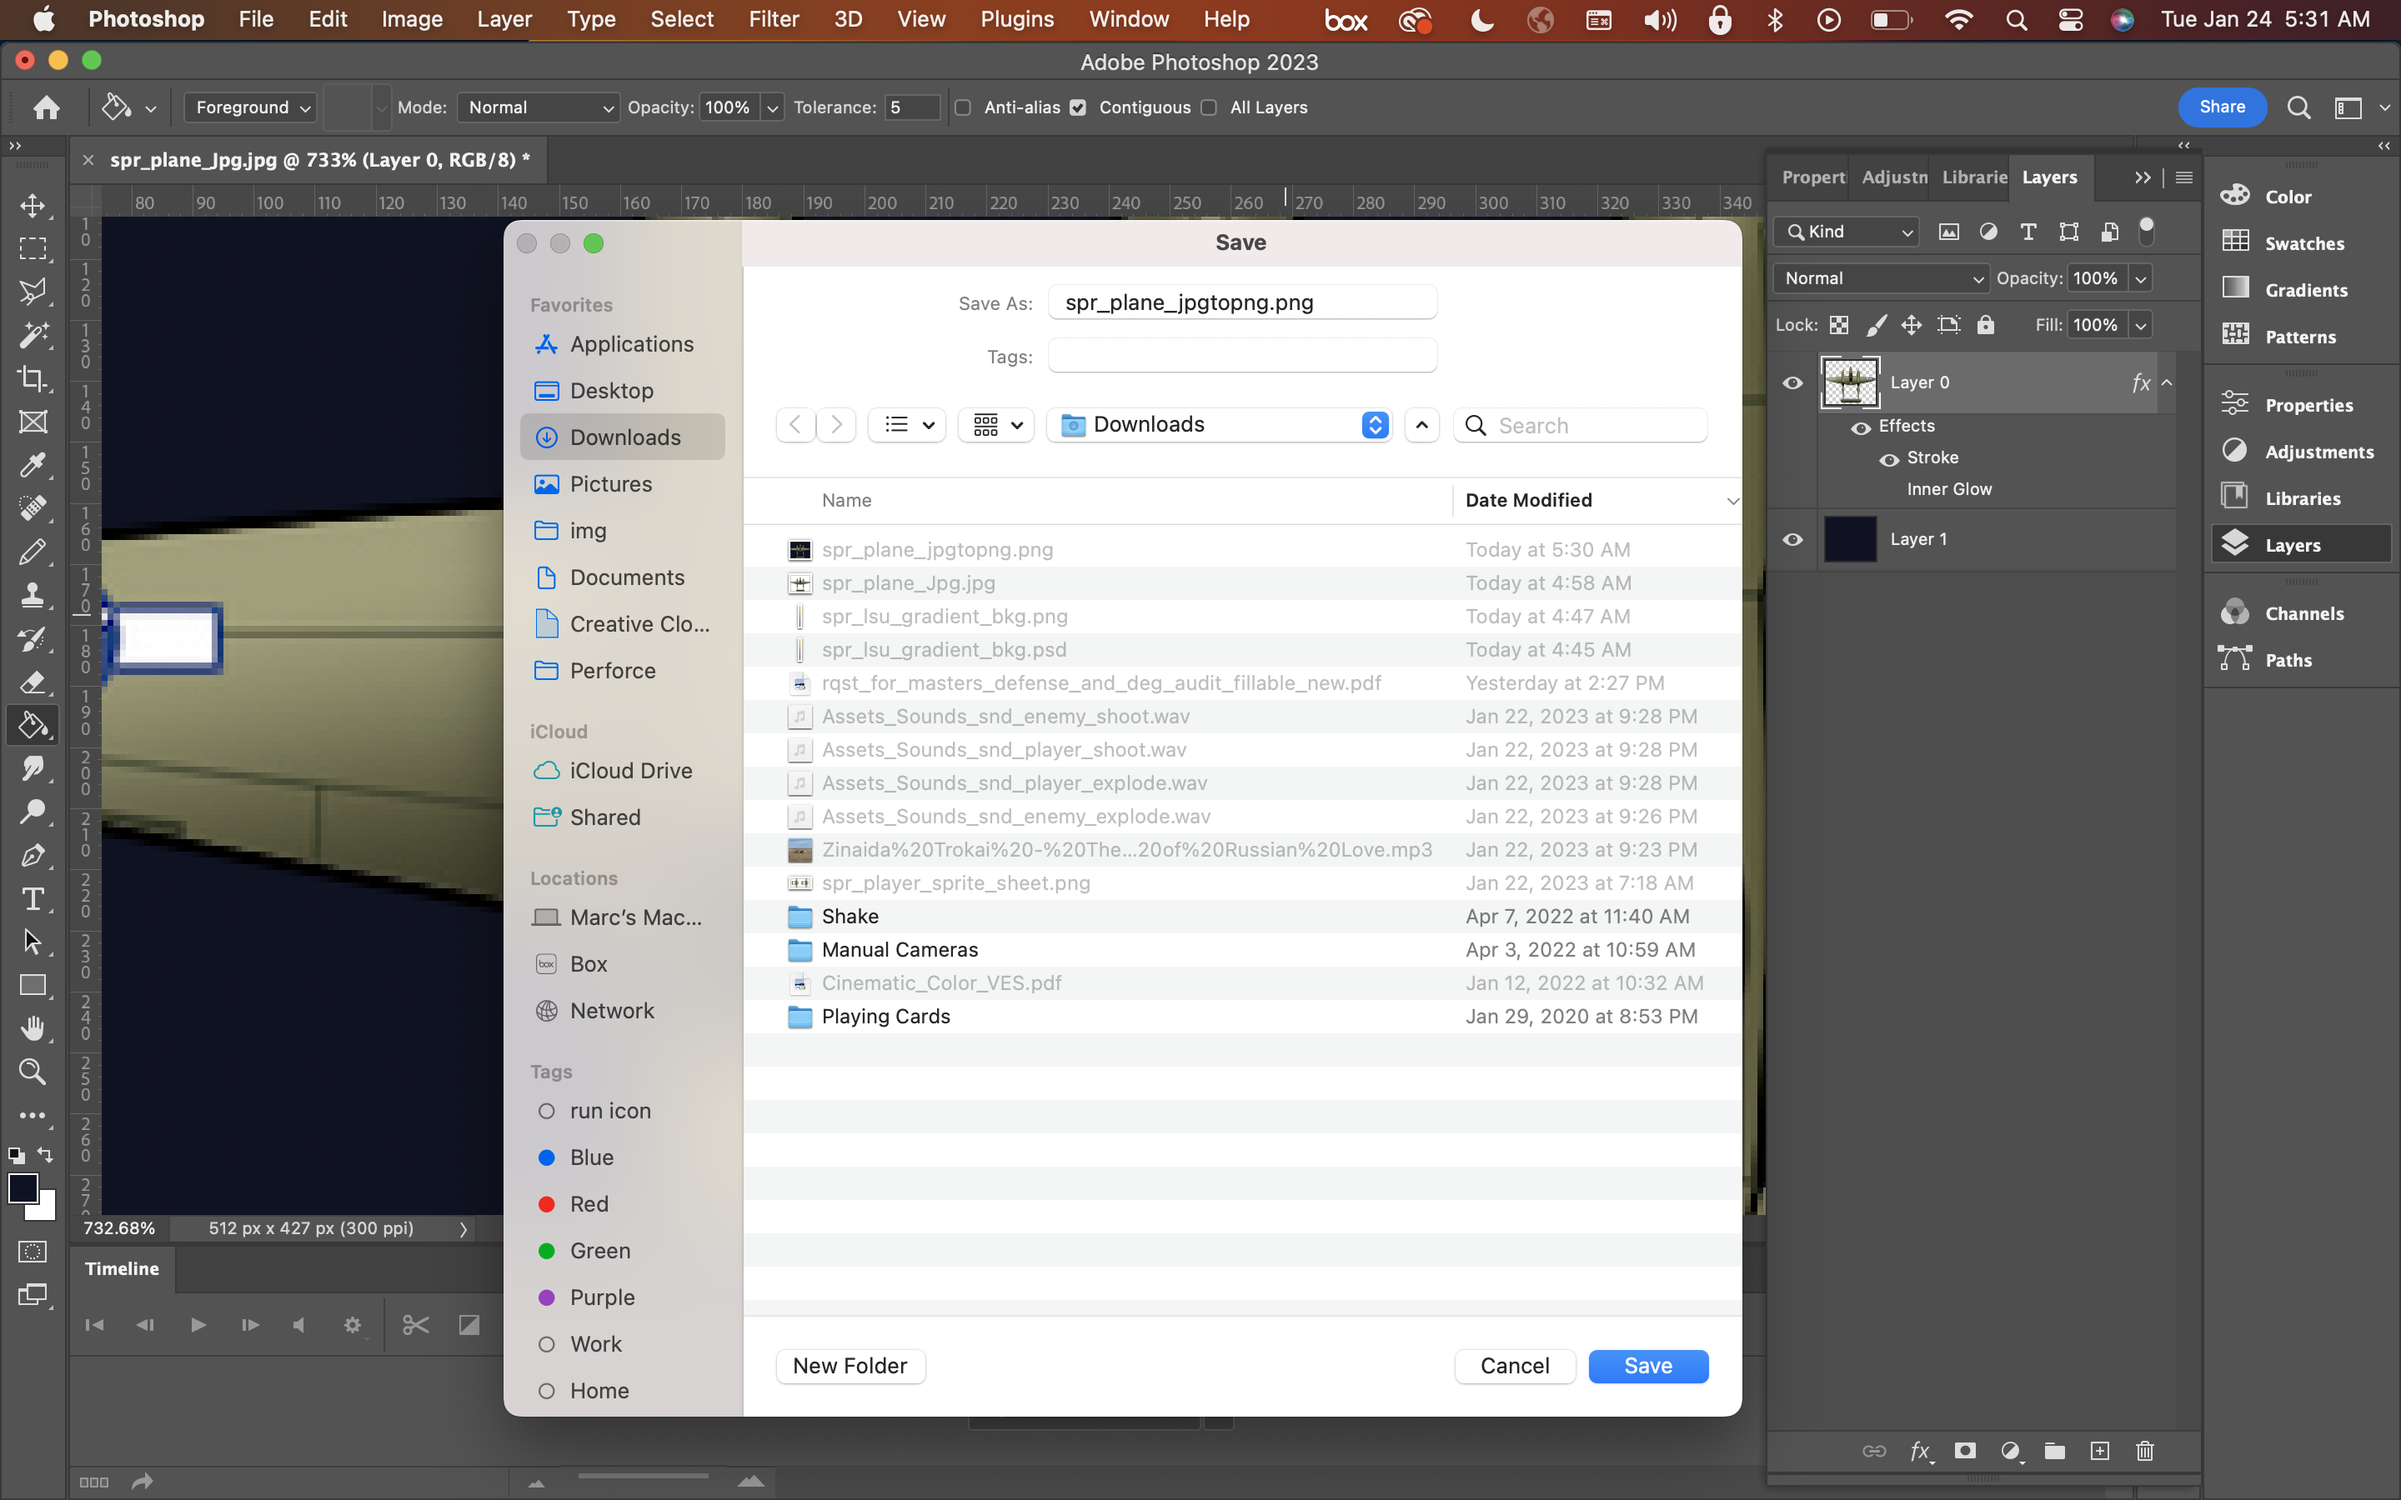
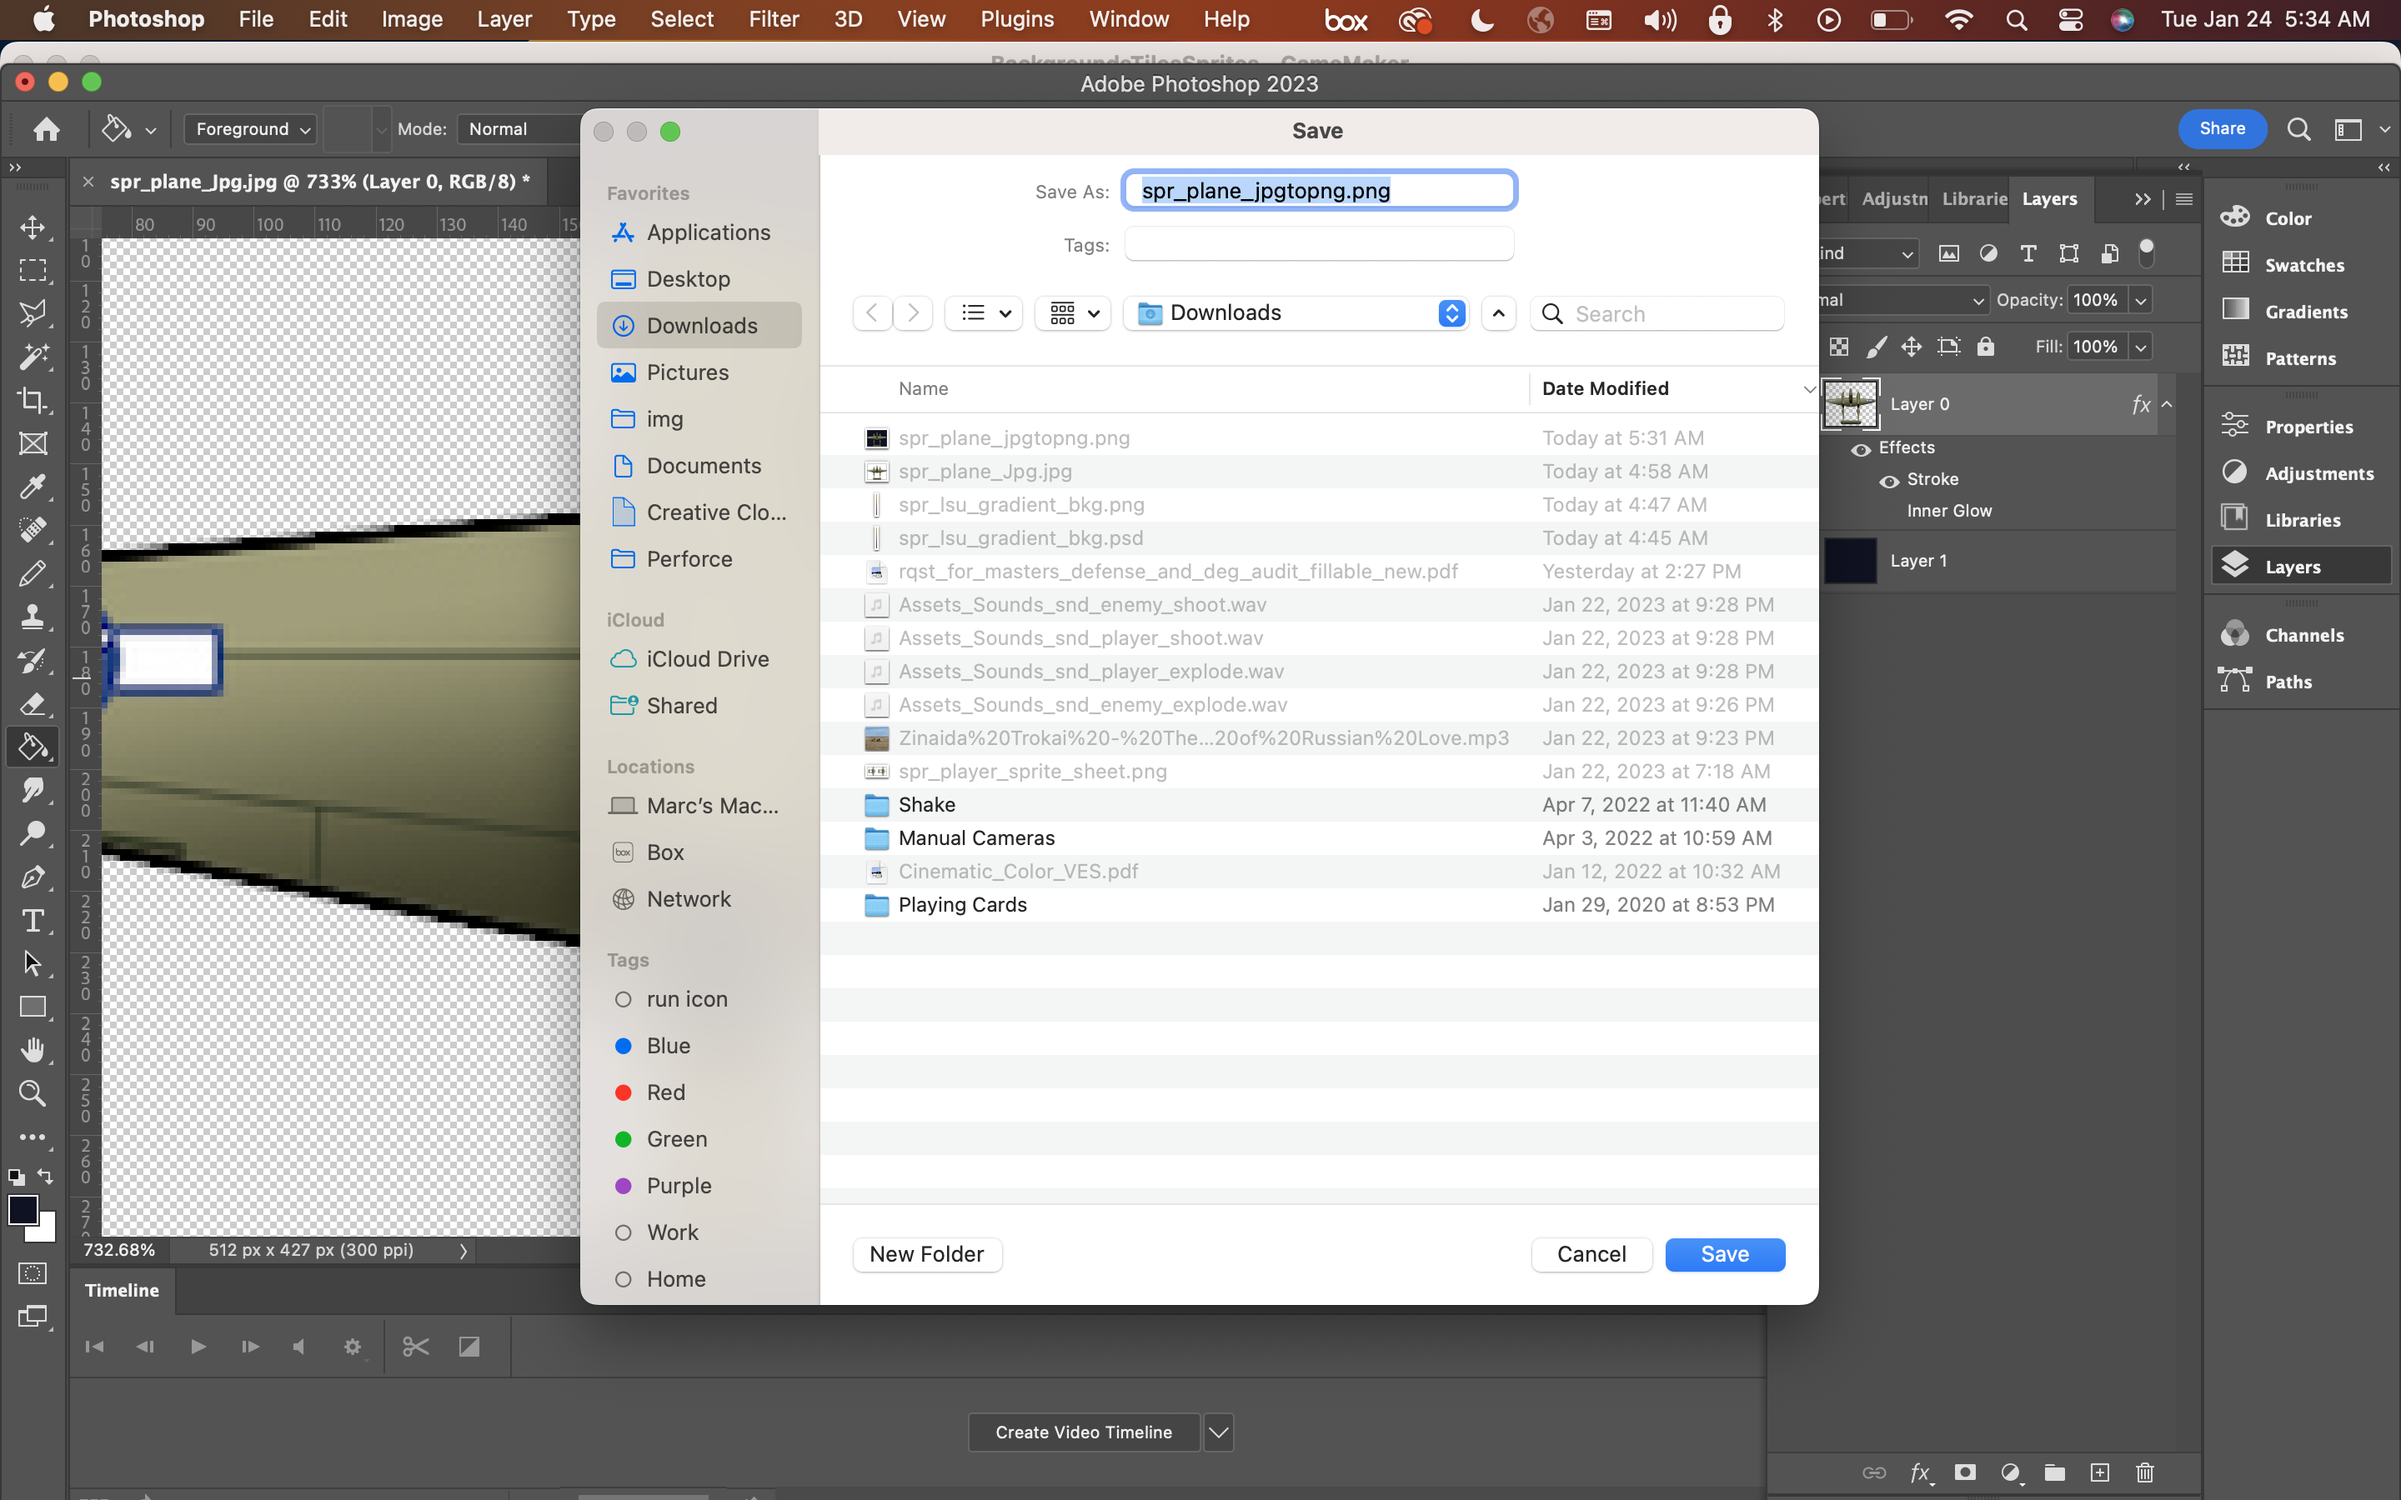
converting to perforce

diff --git a/handling-jpg/README.md b/handling-jpg/README.md
@@ -113,7 +113,7 @@ Now against black it looks better.
 
 ##### `Step 13.`\|`BTS`| :large_blue_diamond: :small_blue_diamond: :small_blue_diamond:  :small_blue_diamond: 
 
-Now export (quick export to png) this newly fixed up sprite with an alpha as a background (you can hide the black background layer) as a **PNG** format.  This way it will preserve the alpha. Call the file `spr_plane_jpgtopng.png`.
+Now export (quick export to png) this newly fixed up sprite with an alpha as a background (you can hide the black background layer if you have one) as a **PNG** format.  This way it will preserve the alpha. Call the file `spr_plane_jpgtopng.png`.
 
 ![Export image of plane that was a jpg as png](images/ExportAsPNG.png)
 
